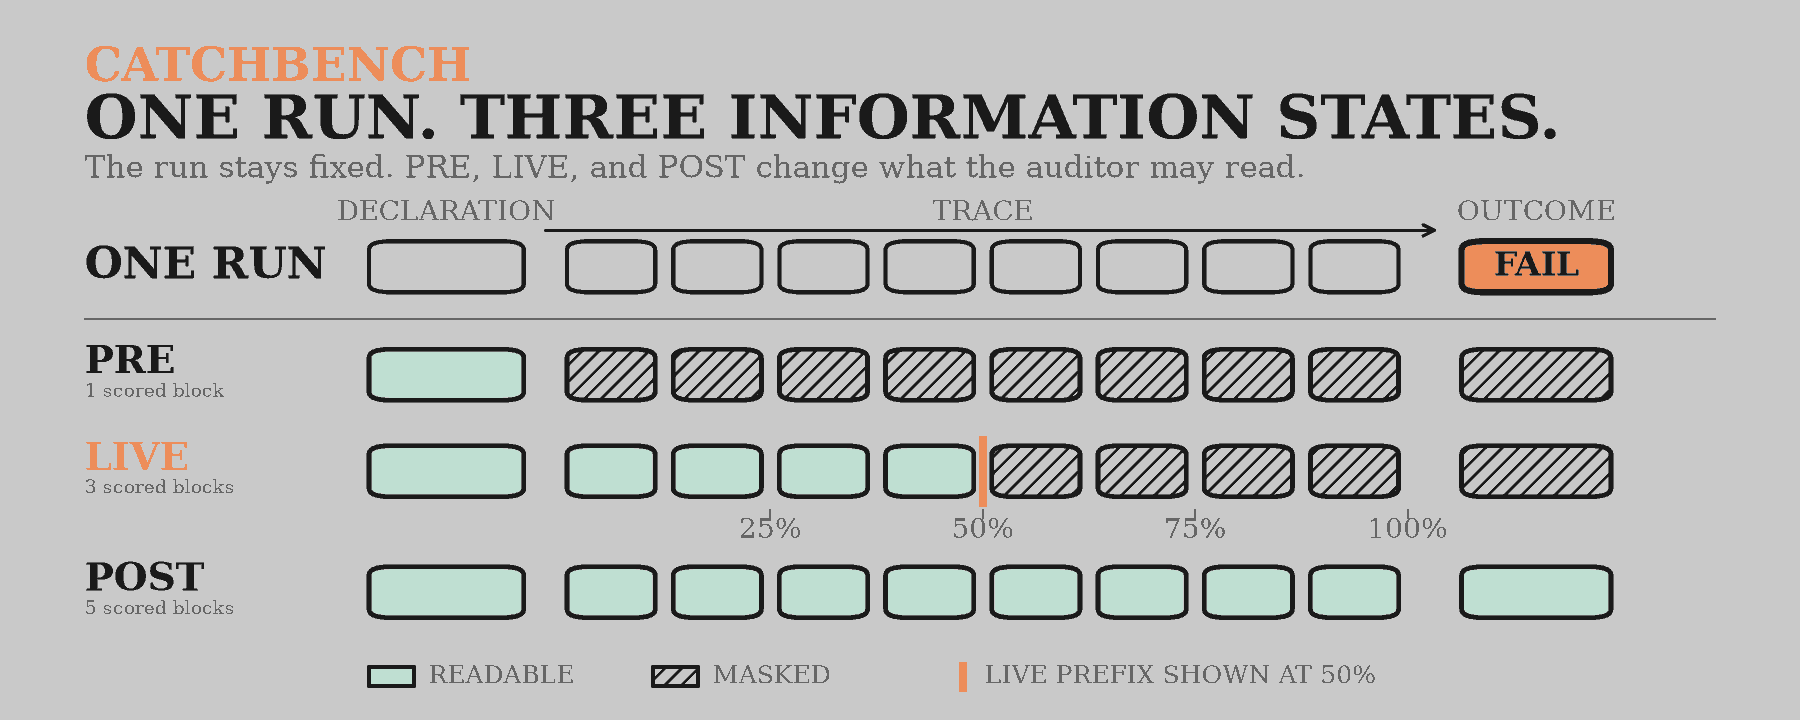
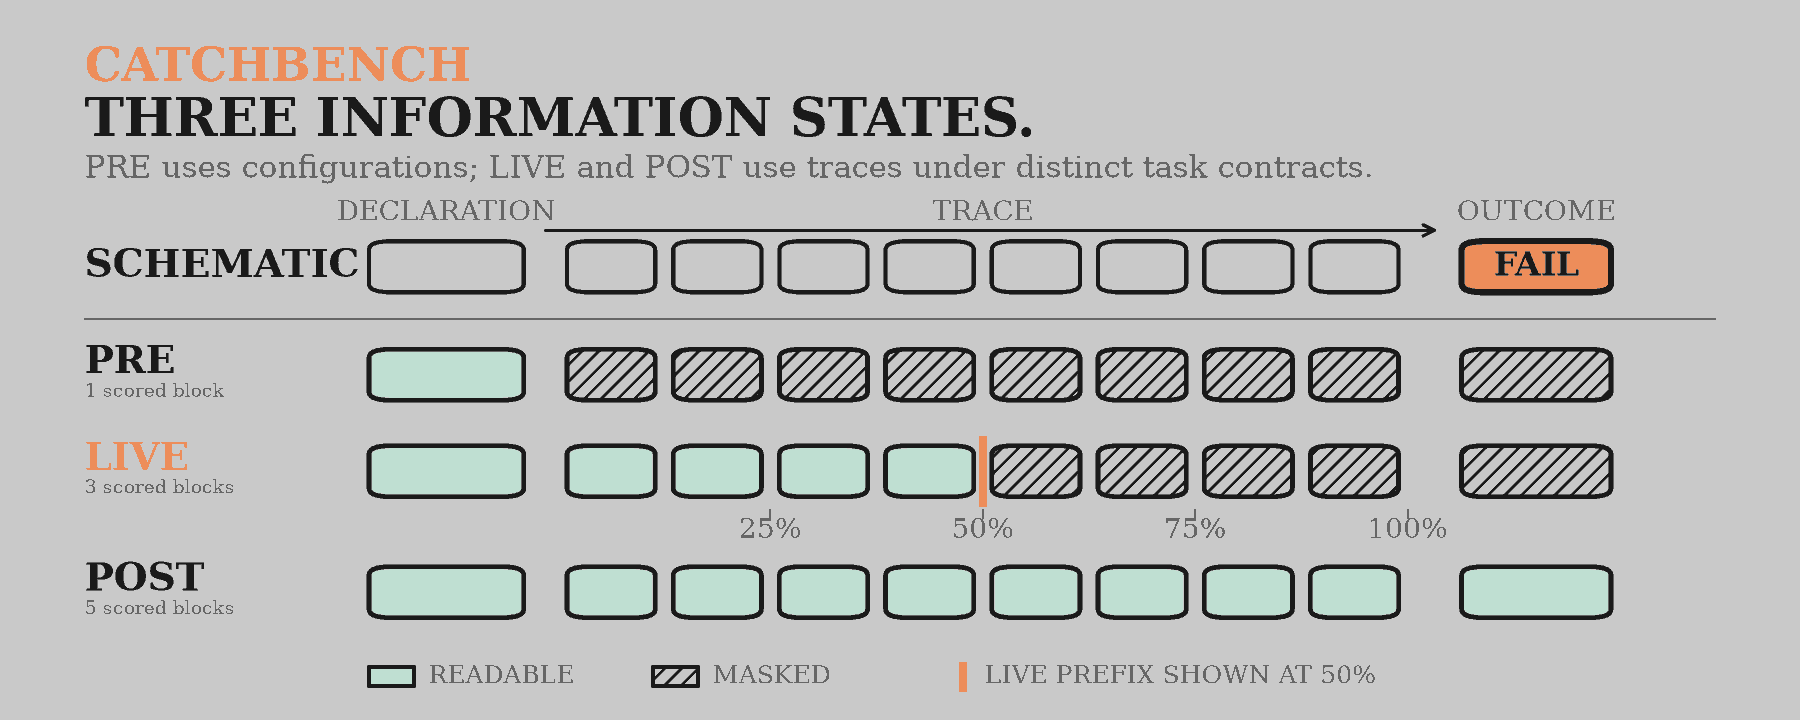
Stop the public face from carrying claims the paper has retracted
Three of these were caught by review rather than by a test, which is the point: nothing here was red.

README.md kept "the pillars are separate tracks, not interchangeable views of one dataset" in the
Why PRE / LIVE / POST section. The paper had already withdrawn that: live.py's own docstring says the
100% column reproduces POST wherever the LIVE four-step filter leaves the POST population unchanged.
The replacement says what is true, and says it at the width the boards support, which is the shared
entrants rather than the whole POST field.

The hero figure headlined the retracted claim as its largest text. The generator could not resynchronize
it because fact_check looked for a README phrase that no longer existed, so the asset had been stale
since the README moved. Guard phrase, headline and subtitle updated, and the row label "ONE RUN" is now
"SCHEMATIC": the scored-block counts sit on masks aligned to that row, so the old label invited a
same-run reading that no record supports. PRE scores 1187 configurations from six config corpora while
LIVE and POST score Who&When, SWE-Gym and tau-bench runs, and those corpus sets are disjoint.

docs/board-runner.md told the next person to regenerate the golden whenever an ARM64 row falls outside
the tolerance, and to record the runner as the authority. One out-of-tolerance row cannot tell expected
numerical variability apart from a wrong dependency, a corpus mismatch or a scoring regression. It now
[…]

Changed region(s): [[0.0311, 0.1222, 0.8711, 0.2444], [0.0311, 0.3361, 0.1867, 0.3972]]

diff --git a/figure-src/hero_lifecycle.py b/figure-src/hero_lifecycle.py
@@ -71,7 +71,7 @@ def fact_check(board_path: Path, readme_path: Path) -> dict[str, int]:
         raise ValueError("tests/golden/board.txt no longer declares the four displayed prefixes")
 
     readme_facts = (
-        "CatchBench holds the run fixed and varies what the auditor may read",
+        "the arrangement fixes what a score means within a state",
         "only the plan and harness",
         "a growing prefix is visible, the outcome is not",
         "the complete trace and outcome are in hand",
@@ -138,12 +138,12 @@ def draw(counts: dict[str, int]) -> plt.Figure:
     ax.axis("off")
 
     _label(ax, 0.047, 0.905, "CATCHBENCH", size=17, color=CORAL, weight="bold")
-    _label(ax, 0.047, 0.830, "ONE RUN. THREE INFORMATION STATES.", size=22, weight="bold")
+    _label(ax, 0.047, 0.830, "THREE INFORMATION STATES.", size=19, weight="bold")
     _label(
         ax,
         0.047,
         0.765,
-        "The run stays fixed. PRE, LIVE, and POST change what the auditor may read.",
+        "PRE uses configurations; LIVE and POST use traces under distinct task contracts.",
         size=11,
         color=SUBTITLE,
     )
@@ -163,7 +163,7 @@ def draw(counts: dict[str, int]) -> plt.Figure:
     _label(ax, outcome_x + outcome_w / 2, 0.704, "OUTCOME", size=10, color=SUBTITLE, ha="center")
 
     run_y = 0.594
-    _label(ax, label_x, run_y + cell_h / 2, "ONE RUN", size=16, weight="bold")
+    _label(ax, label_x, run_y + cell_h / 2, "SCHEMATIC", size=14, weight="bold")
     arrow_y = run_y + cell_h + 0.015
     ax.annotate(
         "",

diff --git a/tests/test_check_board.py b/tests/test_check_board.py
@@ -328,7 +328,7 @@ def test_clean_fixture_passes():
     number_problems, seen, board_backed, allowed = cb.check_prose_numbers(
         real, blocks, cb.PROSE_NUMBER_ALLOWLIST)
     assert number_problems == []
-    assert (seen, board_backed, allowed) == (238, 109, 129)
+    assert (seen, board_backed, allowed) == (239, 110, 129)
     names = [allowance.name for allowance in cb.PROSE_NUMBER_ALLOWLIST]
     assert len(names) == len(set(names))
     assert all(allowance.values and allowance.reason.strip() and allowance.context_contains.strip()

diff --git a/docs/board-runner.md b/docs/board-runner.md
@@ -2,8 +2,11 @@
 
 `verify.yml` finishes in about ninety seconds because it never runs the scoring board. `board.yml`
 runs the whole board and compares it against `tests/golden/board.txt`, which takes roughly nine
-minutes and fetches about 320 MB of corpora. That is too slow for a hosted runner on every push and
-cheap on a lab machine, where the Hugging Face cache persists between jobs.
+minutes and fetches about 320 MB of corpora. That nine-minute figure is a local one, on a machine
+where the Hugging Face cache persists between jobs. `board.yml` itself no longer runs on a
+self-hosted machine: it runs on `ubuntu-latest`, on every push to `main` that touches the scored
+paths, plus a weekly cron and manual dispatch. The corpora are fetched on every run rather than
+cached, and the hosted job takes tens of minutes.
 
 ## Read this before registering a runner on a public repository
 
@@ -35,8 +38,9 @@ the graph-AD path works there.
 
 From the repository's **Settings, Actions, Runners, New self-hosted runner**, follow the commands
 GitHub shows for Linux ARM64. When it asks for labels, accept the defaults so the runner carries
-`self-hosted`, `linux`, and `ARM64`, which is what `board.yml` targets. Then install it as a service
-so it survives a reboot:
+`self-hosted`, `linux`, and `ARM64`. `board.yml` selects `ubuntu-latest` today, so a runner
+registered this way stays idle until its `runs-on` is pointed at those labels. Then install it as a
+service so it survives a reboot:
 
 ```bash
 ./config.sh --url https://github.com/<owner>/<repo> --token <token> --labels self-hosted,linux,ARM64
@@ -44,21 +48,18 @@ sudo ./svc.sh install
 sudo ./svc.sh start
 ```
 
-## The golden is platform-specific, and that is not yet settled
+## The golden reconciles across platforms, within a two-row tolerance
 
-`tests/golden/board.txt` is currently generated on the maintainer's Windows workstation with a CUDA
-build of PyTorch. Whether a Linux ARM64 runner reproduces it exactly at three decimals is an open
-question: the PyGOD rows go through torch and a compiled sampler, and those can differ across BLAS
-implementations and builds.
+`tests/golden/board.txt` is generated on the maintainer's Windows workstation with a CUDA build of
+PyTorch, and ubuntu CI reproduces it. Three CI runs settled how far: two torch-backed rows reconcile
+within a 0.005 tolerance, and every other value on the board is compared exactly. The paragraphs
+below carry that history and the reasoning behind the bound.
 
-The first runner job answers it. Two outcomes:
-
-- **The board matches.** Nothing to do; the golden is portable and a local `check_board.py` run is
-  as authoritative as CI.
-- **Only the PyGOD rows differ.** Regenerate the golden on the runner with
-  `python tools/check_board.py --update`, commit it with the diff in the message, and record here
-  that the runner is the authority. A local run will then show that same difference, which is
-  expected rather than drift.
+Linux ARM64 is the platform still untested, because no runner has ever been registered there. The
+PyGOD rows go through torch and a compiled sampler, and those can differ across BLAS implementations
+and builds. If an ARM64 job differs, retain its produced board and diagnose the difference against the pinned
+code, corpus, and dependency revisions. Update the golden only after a deliberate scoring change,
+using the regeneration procedure below and explaining the numerical diff.
 
 Do not respond by widening `check_board.py`'s tolerance. Exact comparison is what makes the check
 worth having; a tolerance hides the small real movements it exists to catch. One narrow exception is

diff --git a/README.md b/README.md
@@ -17,8 +17,8 @@ run, a growing prefix while it runs, and the finished trace after it ends.
 
 </div>
 
-An audit is limited by the record more often than by the method. CatchBench puts that question to
-each point in a run's life: before it runs you have only the plan and harness (is it
+What an audit can catch depends on which record it is allowed to read. CatchBench puts that question
+to each point in a run's life: before it runs you have only the plan and harness (is it
 over-privileged?); while it runs you have a growing prefix (is it about to fail?); after it runs you
 have the whole trace (which step broke it, did it fail, what kind of fault was it). Six audit
 scenarios produce seven task contracts (localization has two instantiations, human-labeled and
@@ -114,10 +114,10 @@ method implementation; this repository provides the benchmark tasks and comparis
 
 The pillars are not three convenient buckets; they are the three information states a run passes
 through, and the evidence available at each fixes which audit is possible. A method built for one
-state cannot read another's evidence, so the pillars are separate tracks, not interchangeable views of
-one dataset.
+state cannot read another's evidence. The LIVE sweep at 100% is the exception: it reads the
+finished trace and reproduces the shared entrants' POST detection scores.
 
-<img src="assets/hero-lifecycle.png" alt="One fixed agent run seen through three lifecycle evidence masks in the paper palette. PRE reads only the declaration, LIVE adds a growing trace prefix, and POST reads the complete trace and outcome. The rows contain one, three, and five scored blocks, respectively." width="100%">
+<img src="assets/hero-lifecycle.png" alt="Schematic of three information states, each carrying its own record, in the paper palette. PRE reads only the declaration, LIVE adds a growing trace prefix, and POST reads the complete trace and outcome. The rows contain one, three, and five scored blocks, respectively." width="100%">
 
 The scored block identities are the ones `run.py` prints and `tests/golden/board.txt` records. A
 reader can go from an audit question to its scored block without a lookup table.
